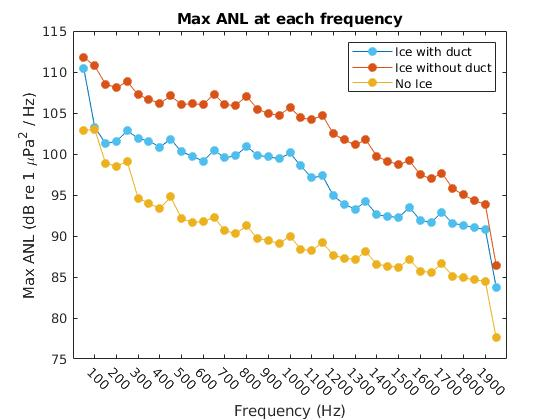
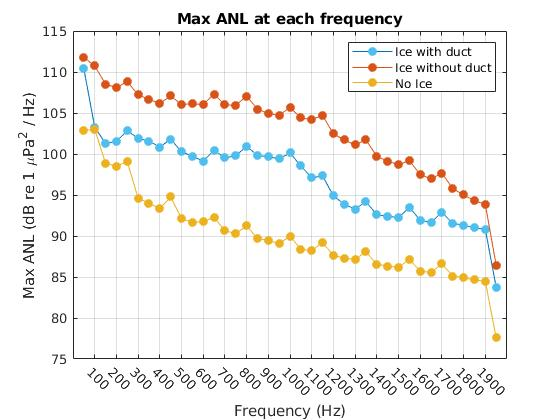
edits to figure

diff --git a/kat_hist_combiner.m b/kat_hist_combiner.m
@@ -2,7 +2,7 @@
 %% hist divider
 
 clear all
-% close all
+close all
 clc
 
 load ANLs_50_1900Hz.mat
@@ -28,6 +28,7 @@ p3 = plot(avg_freq,ANL_no_ice_max,'-o','MarkerEdgeColor','#EDB120','MarkerFaceCo
 
 ylabel(['Max ANL (dB re 1 \muPa^2 / Hz)'])
 xlabel('Frequency (Hz)')
+grid on
 % xticks([50 100 150 200 250 300 350 400 450 500 550 600 ...
 %     650 700 750 800 850 900 950 1000 1050 1100 1150 1200 1250 1300 1350 1400 1450 ...
 %     1500 1550 1600 1650 1700 1750 1800 1850 1900 1950])
@@ -55,6 +56,7 @@ p3 = plot(avg_freq,ANL_no_ice_min,'-o','MarkerEdgeColor','#EDB120','MarkerFaceCo
 
 ylabel(['Min ANL (dB re 1 \muPa^2 / Hz)'])
 xlabel('Frequency (Hz)')
+grid on
 % xticks([50 100 150 200 250 300 350 400 450 500 550 600 ...
 %     650 700 750 800 850 900 950 1000 1050 1100 1150 1200 1250 1300 1350 1400 1450 ...
 %     1500 1550 1600 1650 1700 1750 1800 1850 1900 1950])
@@ -73,6 +75,7 @@ p3 = plot(avg_freq,ANL_no_ice_max-ANL_no_ice_min,'-o','MarkerEdgeColor','#EDB120
 
 ylabel(['Min ANL (dB re 1 \muPa^2 / Hz)'])
 xlabel('Frequency (Hz)')
+grid on
 % xticks([50 100 150 200 250 300 350 400 450 500 550 600 ...
 %     650 700 750 800 850 900 950 1000 1050 1100 1150 1200 1250 1300 1350 1400 1450 ...
 %     1500 1550 1600 1650 1700 1750 1800 1850 1900 1950])
@@ -97,7 +100,7 @@ p1 = plot(avg_freq,ANL_duct_med,'-o','MarkerEdgeColor','#4DBEEE','MarkerFaceColo
 hold on
 p2 = plot(avg_freq,ANL_no_duct_med,'-o','MarkerEdgeColor','#D95319','MarkerFaceColor','#D95319')
 p3 = plot(avg_freq,ANL_no_ice_med,'-o','MarkerEdgeColor','#EDB120','MarkerFaceColor','#EDB120')
-
+grid on
 ylabel(['Median of ANL (dB re 1 \muPa^2 / Hz)'])
 xlabel('Frequency (Hz)')
 % xticks([50 100 150 200 250 300 350 400 450 500 550 600 ...
@@ -168,6 +171,7 @@ hold on
 p2 = plot(avg_freq,totalvar_dist_duct_noice,'-o','Color','#77AC30','MarkerEdgeColor','#77AC30','MarkerFaceColor','#77AC30');
 p3 = plot(avg_freq,totalvar_dist_noice_noduct,'-o','Color','#FF8800','MarkerEdgeColor','#FF8800','MarkerFaceColor','#FF8800');
 
+grid on
 ylabel(['Total variation Distance'])
 xlabel('Frequency (Hz)')
 xticks([100 200 300 400 500 600 700 800 900 1000 1100 1200 1300 1400 1500 1600 1700 1800 1900])
@@ -182,20 +186,22 @@ hold on
 p2 = plot(avg_freq,ANL_vec(ind_no_ice)-ANL_vec(ind_duct),'-o','Color','#77AC30','MarkerEdgeColor','#77AC30','MarkerFaceColor','#77AC30');
 p3 = plot(avg_freq,ANL_vec(ind_no_ice)-ANL_vec(ind_no_duct),'-o','Color','#FF8800','MarkerEdgeColor','#FF8800','MarkerFaceColor','#FF8800');
 
-ylabel(['Pairwise Differnce of Modes of ANL (dB re 1 \muPa^2 / Hz)'])
+grid on
+ylabel(['Pairwise Differnce of ANL (dB re 1 \muPa^2 / Hz)'])
 xlabel('Frequency (Hz)')
 xticks([100 200 300 400 500 600 700 800 900 1000 1100 1200 1300 1400 1500 1600 1700 1800 1900])
 xtickangle(-45)
-title('Pairwise Difference between Modes of ANL at each frequency')
+title('Pairwise Difference of ANL between Modes of each frequency')
 legend('Ice with duct/Ice without duct','Ice with duct/No Ice','Ice without duct/No Ice','Location','best')
 
-%% MODE DIFFS - this is essentially pairwise differnce
+%% MODES modes %%%%%%%%%%%%%%%%%%%%%%%%%%%%%%%%%%%%%%
 figure
 p1 = plot(avg_freq,ANL_vec(ind_duct),'-o','MarkerEdgeColor','#4DBEEE','MarkerFaceColor','#4DBEEE');
 hold on
 p2 = plot(avg_freq,ANL_vec(ind_no_duct),'-o','MarkerEdgeColor','#D95319','MarkerFaceColor','#D95319');
 p3 = plot(avg_freq,ANL_vec(ind_no_ice),'-o','MarkerEdgeColor','#EDB120','MarkerFaceColor','#EDB120');
 
+grid on
 ylabel(['Mode of ANL dB re 1 \muPa^2 / Hz'])
 xlabel('Frequency (Hz)')
 xticks([100 200 300 400 500 600 700 800 900 1000 1100 1200 1300 1400 1500 1600 1700 1800 1900])
@@ -210,6 +216,7 @@ hold on
 p2 = plot(avg_freq,log10(ANL_vec(ind_no_duct)),'-o','MarkerEdgeColor','#D95319','MarkerFaceColor','#D95319');
 p3 = plot(avg_freq,log10(ANL_vec(ind_no_ice)),'-o','MarkerEdgeColor','#EDB120','MarkerFaceColor','#EDB120');
 
+grid on
 ylabel(['Mode of ANL log(dB re 1 \muPa^2 / Hz)'])
 xlabel('Frequency (Hz)')
 xticks([100 200 300 400 500 600 700 800 900 1000 1100 1200 1300 1400 1500 1600 1700 1800 1900])
@@ -223,6 +230,7 @@ hold on
 p2 = plot(avg_freq,pair_dist_duct_noice,'-o','Color','#77AC30','MarkerEdgeColor','#77AC30','MarkerFaceColor','#77AC30');
 p3 = plot(avg_freq,pair_dist_noice_noduct,'-o','Color','#FF8800','MarkerEdgeColor','#FF8800','MarkerFaceColor','#FF8800');
 
+grid on
 ylabel(['Pairwise Differnce of Peak (dB re 1 \muPa^2 / Hz)'])
 xlabel('Frequency (Hz)')
 xticks([100 200 300 400 500 600 700 800 900 1000 1100 1200 1300 1400 1500 1600 1700 1800 1900])
